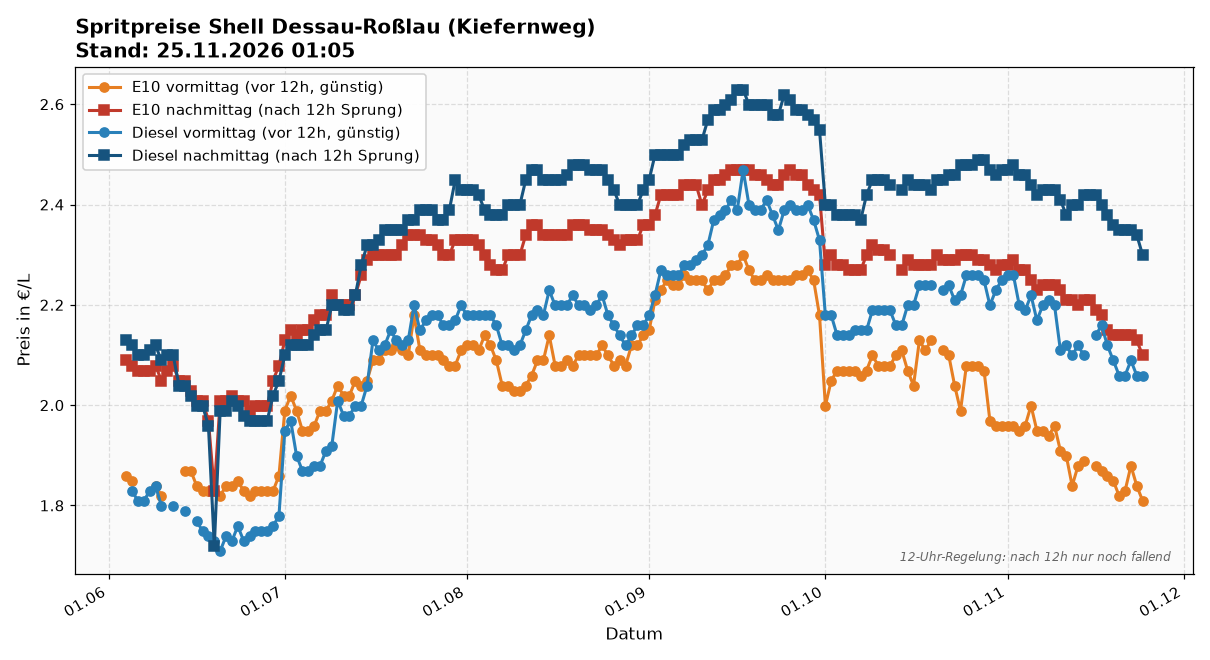
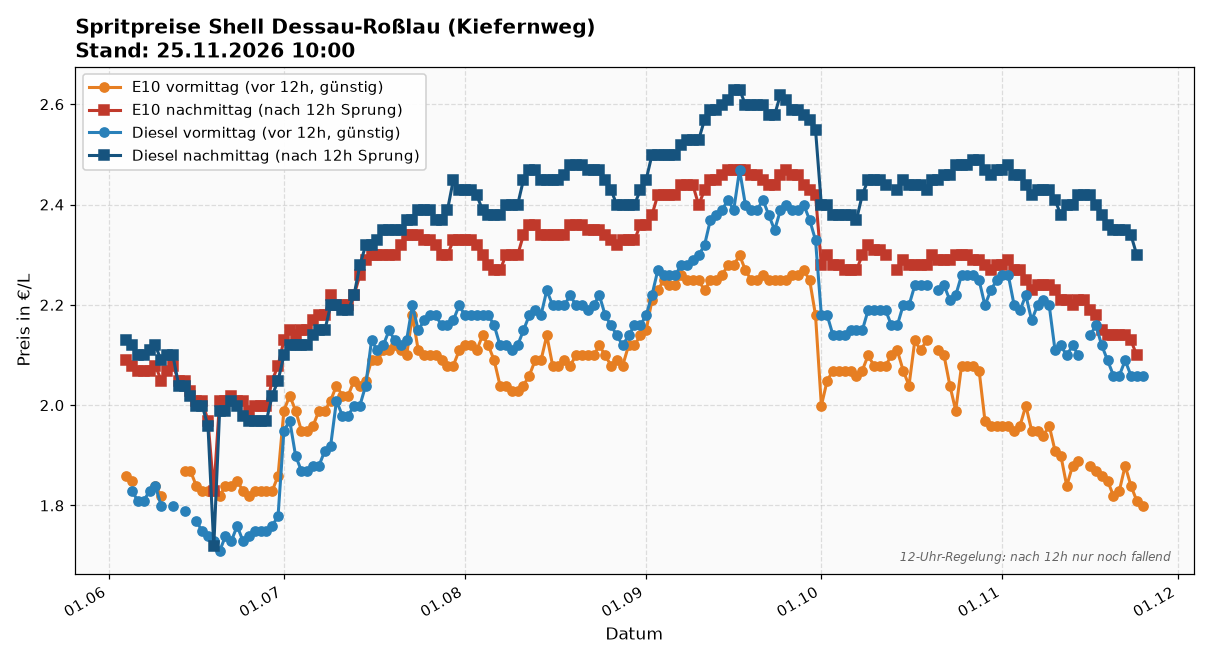
update: spritpreise 2026-11-25 10:00

diff --git a/index.html b/index.html
@@ -19,17 +19,17 @@
 </head>
 <body>
 <h1>🛢 Spritpreise Shell Dessau-Roßlau (Kiefernweg)</h1>
-<div class="sub">Source: Tankerkönig · Stand: 25.11.2026 01:05</div>
+<div class="sub">Source: Tankerkönig · Stand: 25.11.2026 10:00</div>
 
 <img src="latest.png" alt="Preisverlauf">
 
 <div class="latest">
   <strong>Heute (2026-11-25)</strong>
-  <div style="color:#888;font-style:italic;margin-bottom:0.5em;">Noch keine Messung heute — cron läuft 09:00 + 12:10.</div>
+  
   <table>
-    <tr><td>E10 vormittag</td><td class="price">— €</td></tr>
+    <tr><td>E10 vormittag</td><td class="price">1.799 €</td></tr>
     <tr><td>E10 nachmittag</td><td class="price">— €</td></tr>
-    <tr><td>Diesel vormittag</td><td class="price">— €</td></tr>
+    <tr><td>Diesel vormittag</td><td class="price">2.059 €</td></tr>
     <tr><td>Diesel nachmittag</td><td class="price">— €</td></tr>
   </table>
 </div>
